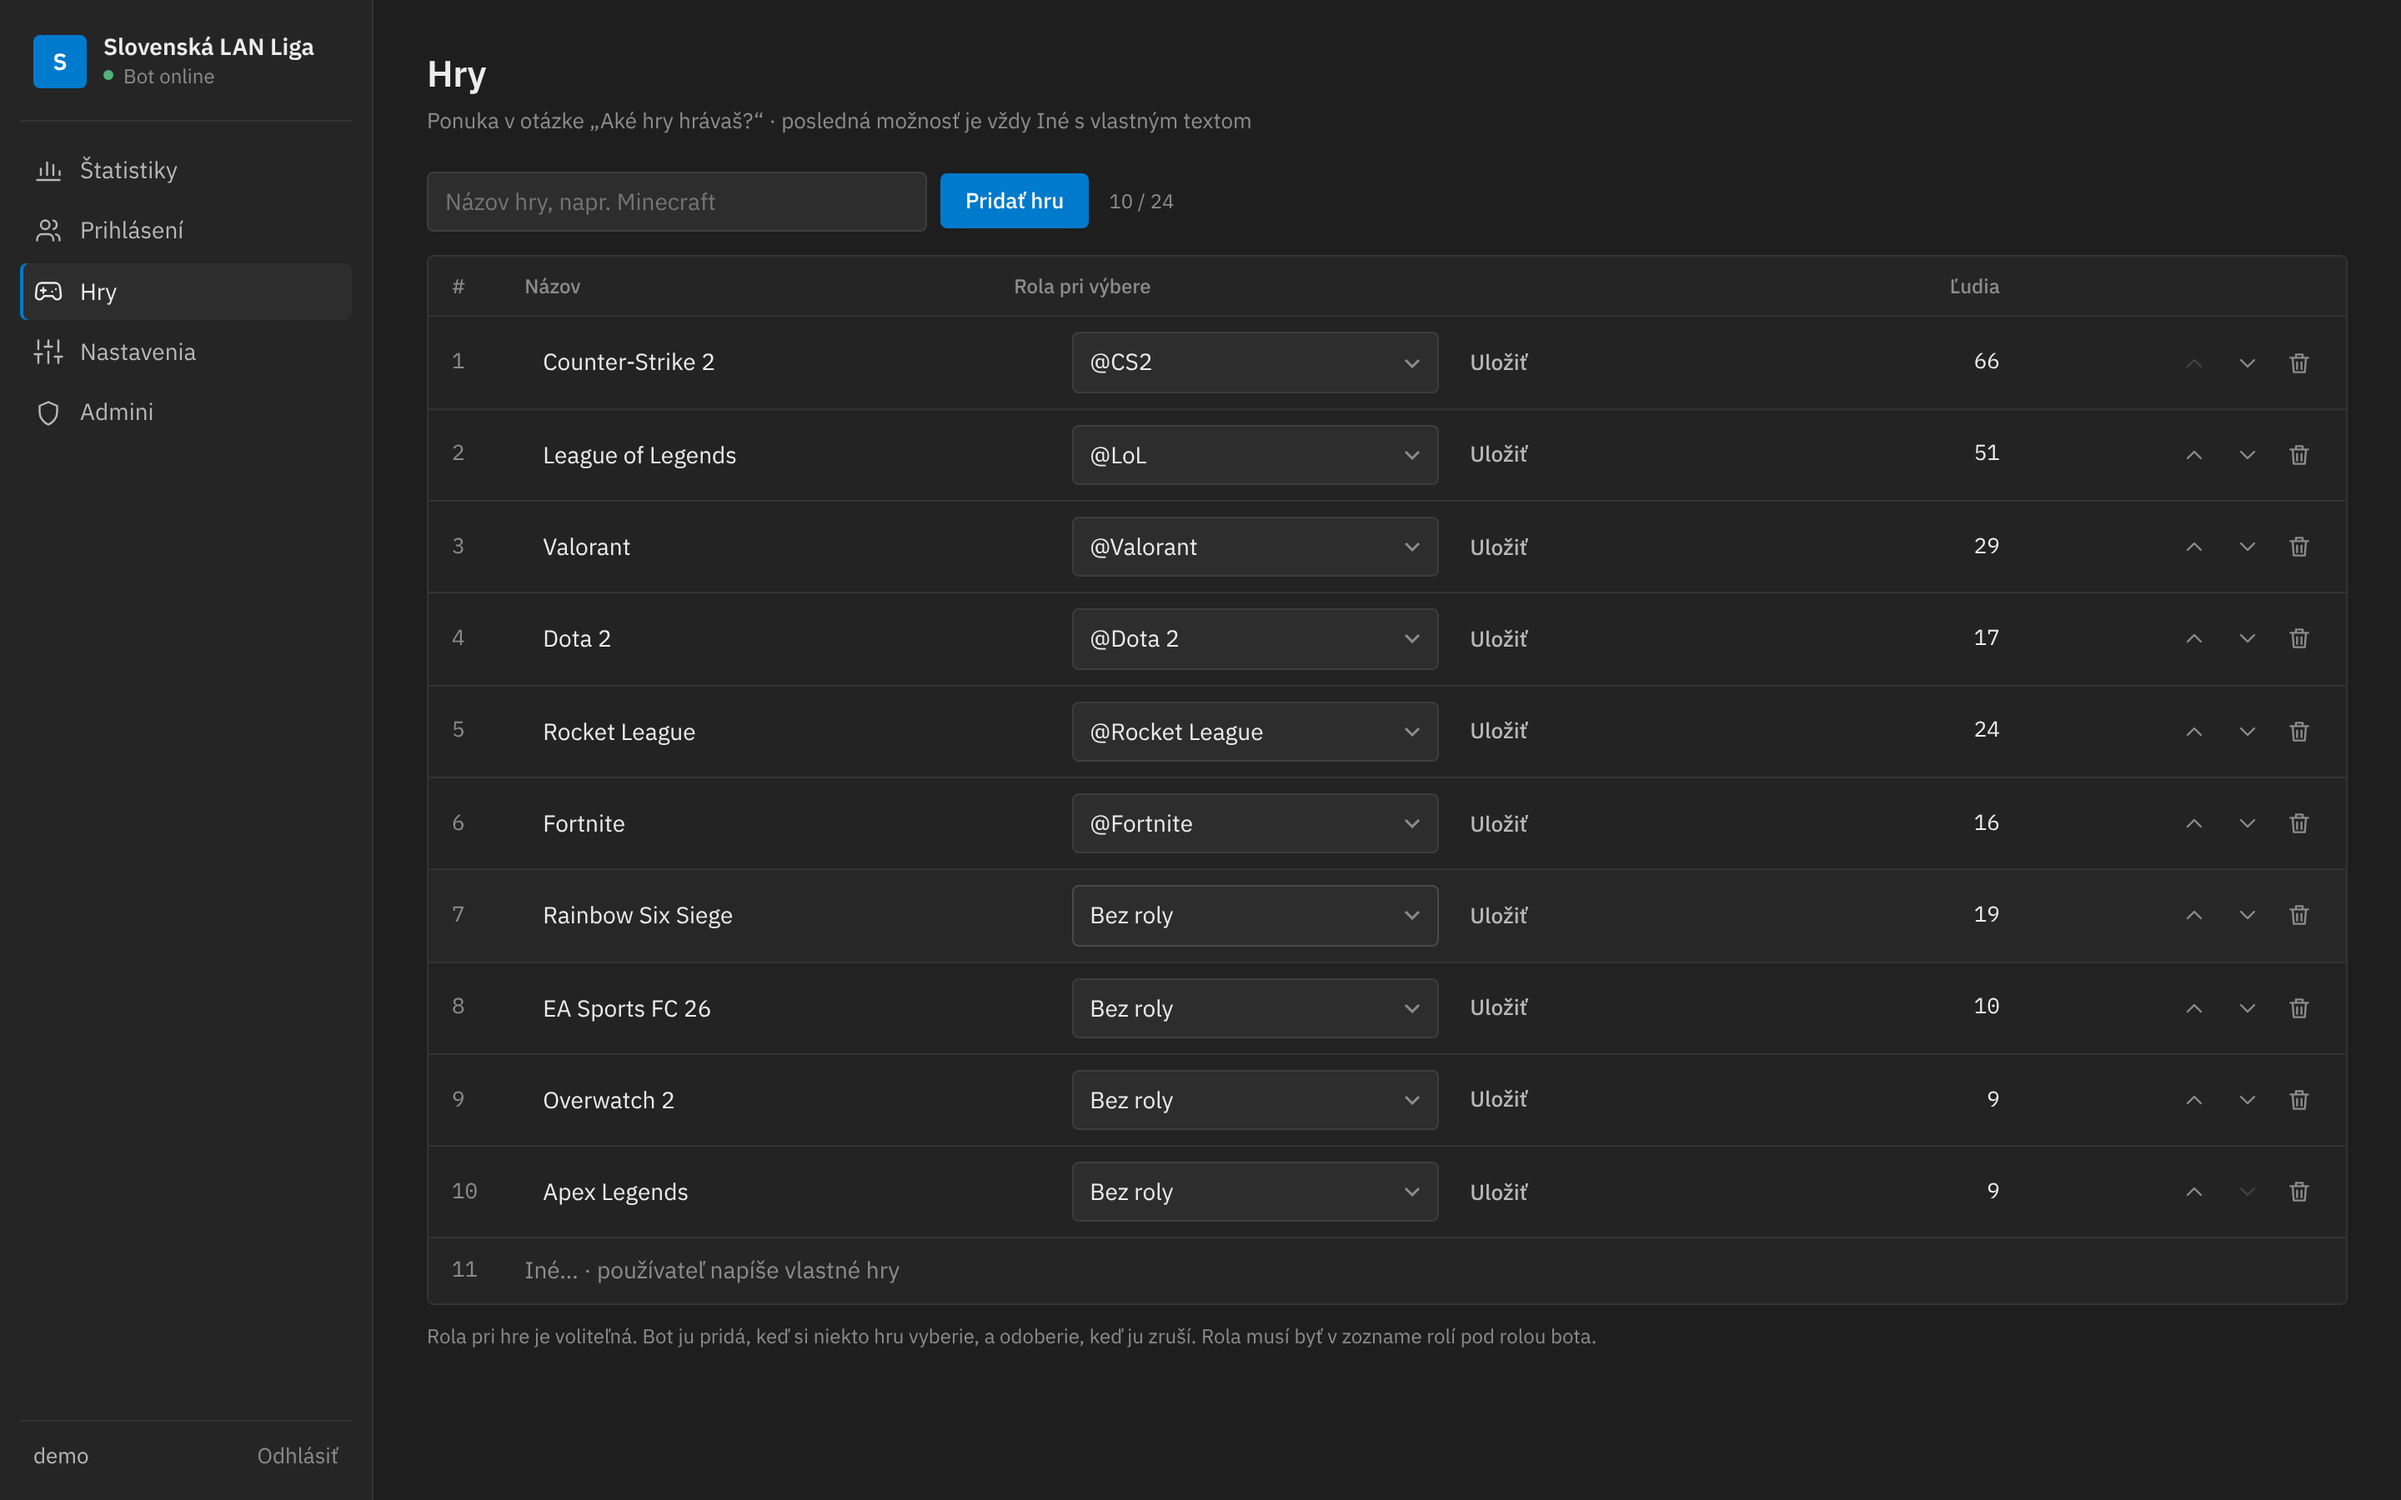
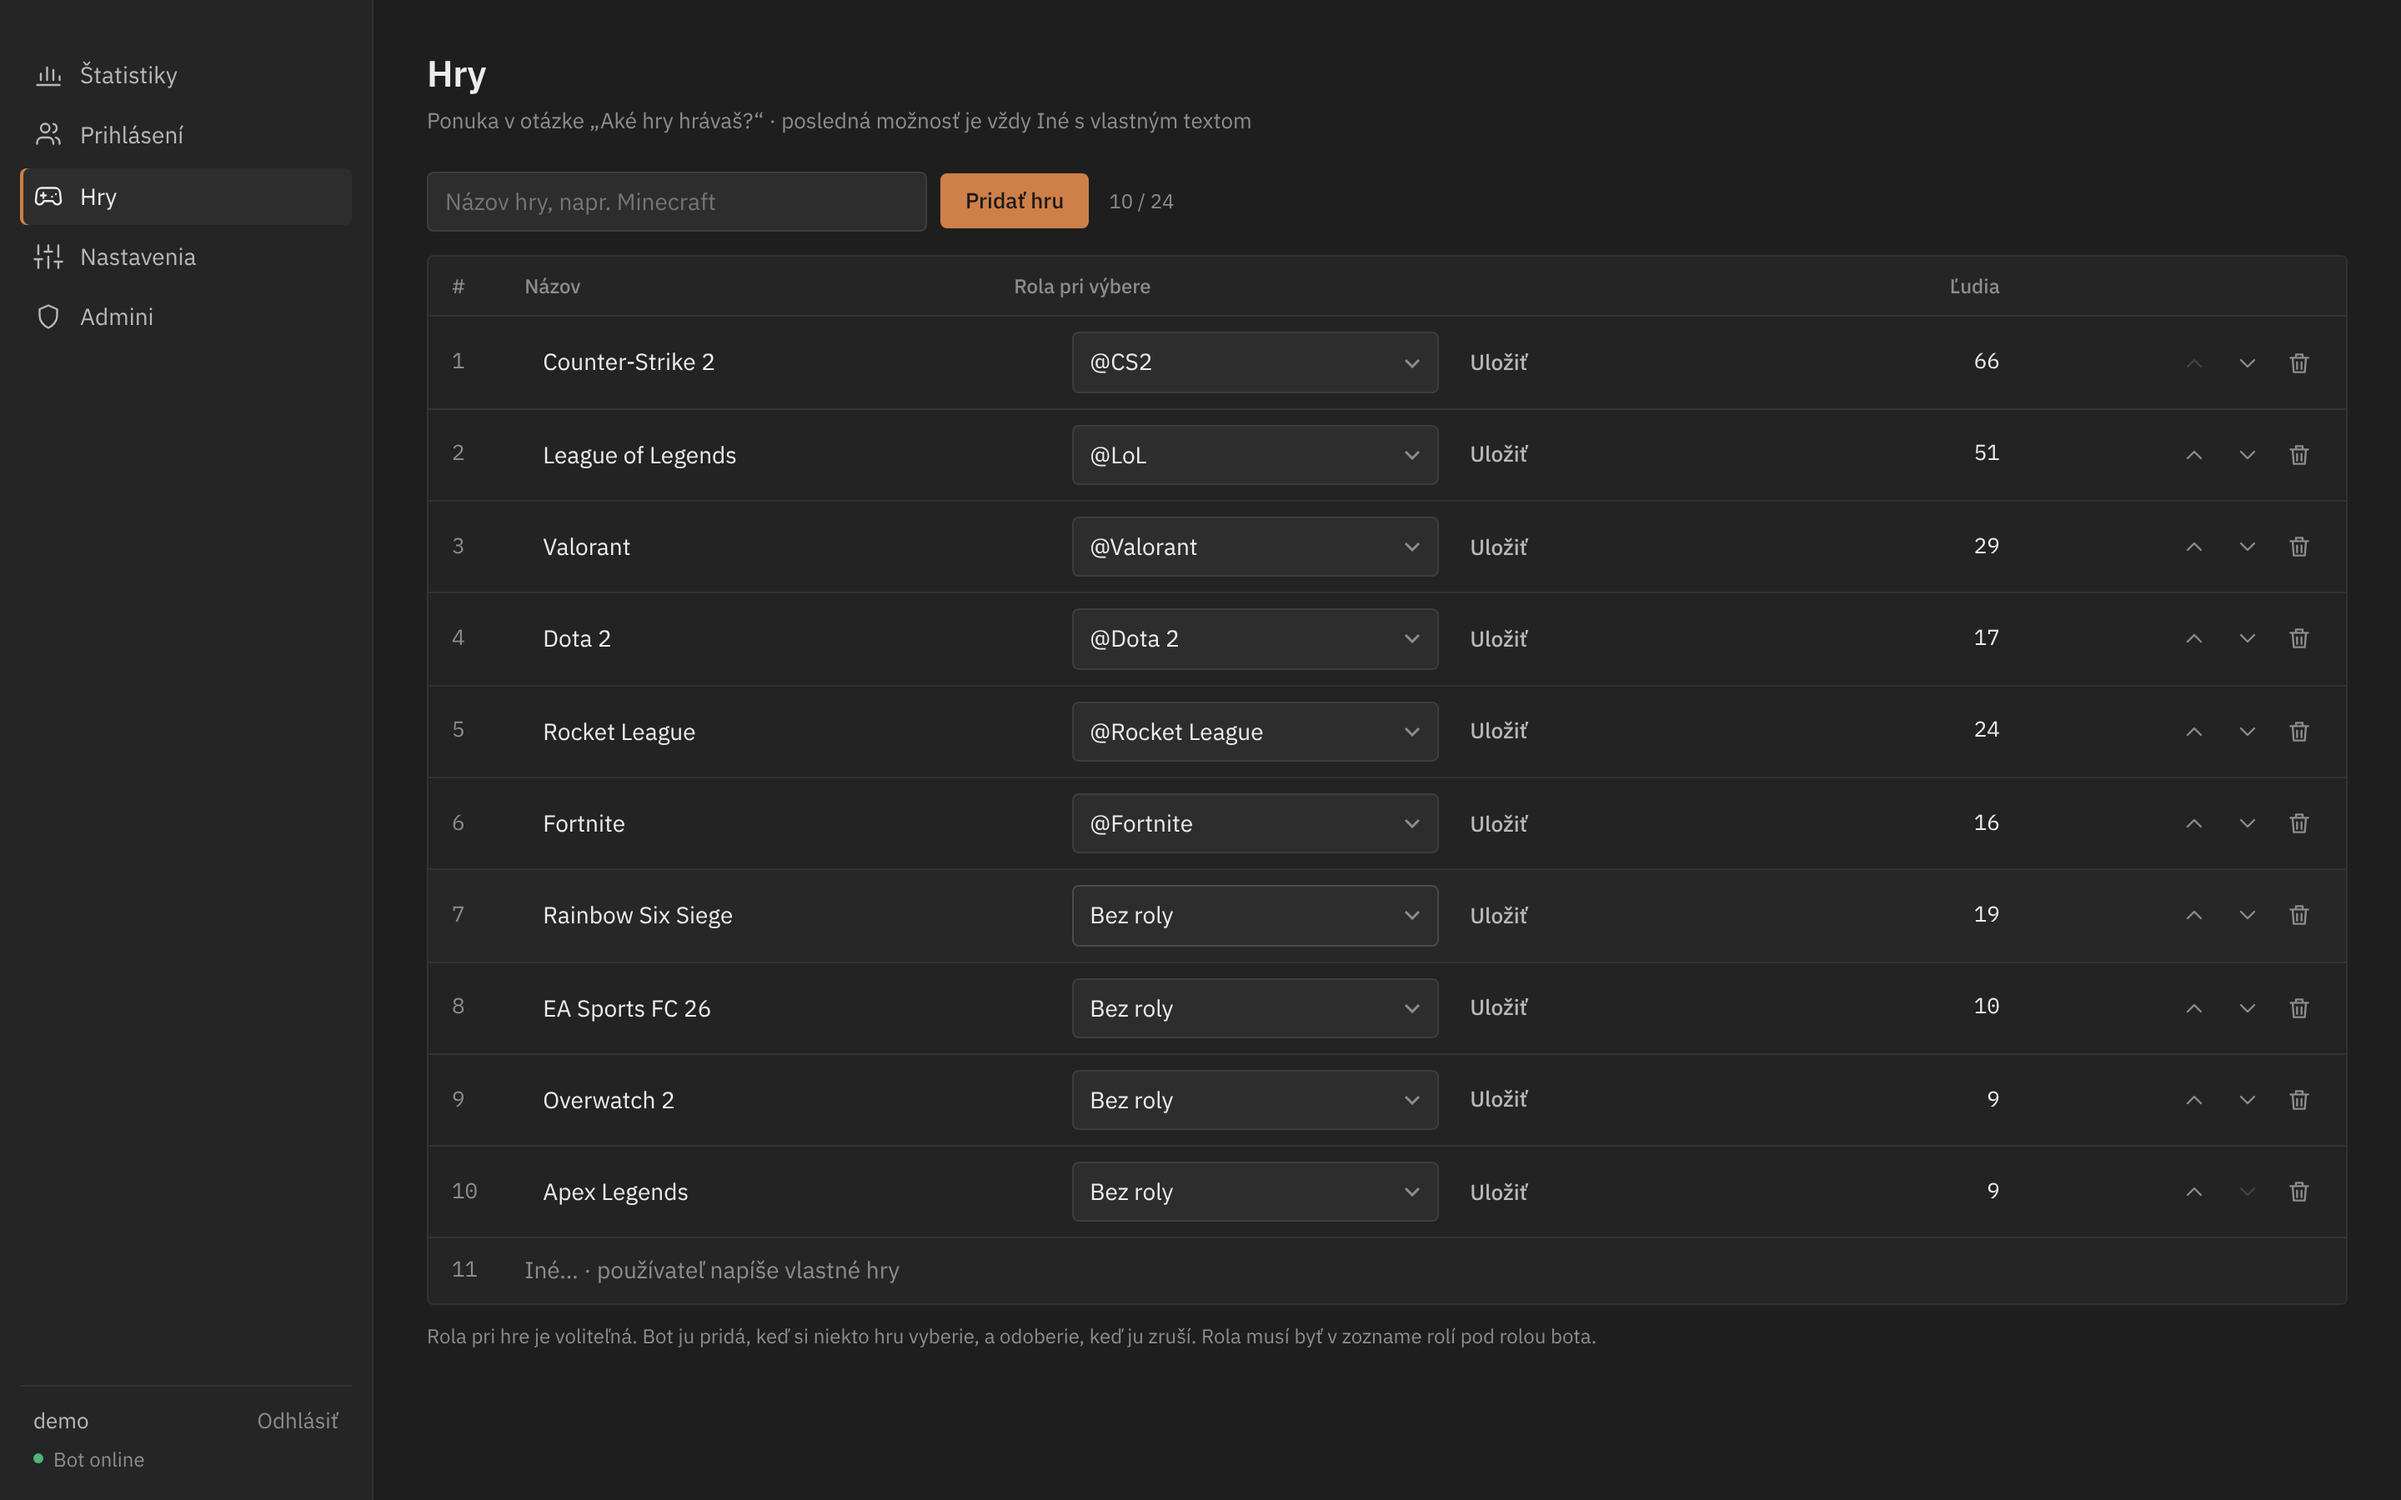
Panel: muted orange accent, drop server name block from sidebar
Bot online/offline status moves to the sidebar footer.

Claude-Session: https://claude.ai/code/session_014mXFMA4HcgocH3yi2gUjYr

Changed region(s): [[0.0, 0.0, 0.125, 0.28], [0.375, 0.0933, 0.4688, 0.1556], [0.0, 0.9644, 0.0625, 0.9956]]

diff --git a/src/web/public/style.css b/src/web/public/style.css
@@ -1,4 +1,4 @@
-/* Palette follows the NodeEditor look: neutral charcoal greys with one blue accent. */
+/* Neutral charcoal greys (from NodeEditor) with one muted orange accent. */
 :root {
   color-scheme: dark;
   --bg: #1e1e1e;
@@ -10,12 +10,14 @@
   --text: #ececec;
   --text-2: #b8b8b8;
   --muted: #8c8c8c;
-  --accent: #007acc;
-  --accent-hi: #1a8ad6;
-  --accent-ink: #ffffff;
-  --series: #3987e5;
-  --series-wash: rgba(57, 135, 229, 0.12);
-  --series-dim: #2b4f78;
+  --accent: #cf8048;
+  --accent-hi: #dc915c;
+  --accent-ink: #1a1a1a;
+  --link: #e09a64;
+  --series: #d4844a;
+  --series-wash: rgba(212, 132, 74, 0.12);
+  --series-dim: #6a4630;
+  --series-track: #3a2a1f;
   --ok: #4fb37a;
   --danger: #e66767;
   --danger-bg: #5a2626;
@@ -32,7 +34,7 @@ body {
   background: var(--bg);
   -webkit-font-smoothing: antialiased;
 }
-a { color: var(--series); text-decoration: none; }
+a { color: var(--link); text-decoration: none; }
 a:hover { text-decoration: underline; text-underline-offset: 2px; }
 em { font-style: normal; color: var(--muted); }
 strong { font-weight: 600; }
@@ -51,19 +53,12 @@ strong { font-weight: 600; }
   border-right: 1px solid var(--line);
   display: flex; flex-direction: column; align-self: start;
   position: sticky; top: 0; height: 100vh;
-  padding: 16px 12px;
+  padding: 28px 12px 16px;
 }
-.brand { display: flex; gap: 10px; align-items: center; padding: 4px 8px 18px; border-bottom: 1px solid var(--line); margin-bottom: 12px; }
-.mark {
-  width: 32px; height: 32px; border-radius: var(--radius); flex: none;
-  display: grid; place-items: center;
-  background: var(--accent); color: var(--accent-ink); font-weight: 600;
-}
-.brand-name { font-weight: 600; line-height: 1.2; overflow: hidden; text-overflow: ellipsis; white-space: nowrap; max-width: 150px; }
-.brand-sub { font-size: 12px; color: var(--muted); display: flex; align-items: center; gap: 6px; }
-.brand-sub .dot { width: 6px; height: 6px; border-radius: 50%; background: var(--muted); }
-.brand-sub.on .dot { background: var(--ok); }
-.brand-sub.off .dot { background: var(--danger); }
+.status { font-size: 12px; color: var(--muted); display: flex; align-items: center; gap: 6px; }
+.status .dot { width: 6px; height: 6px; border-radius: 50%; background: var(--muted); }
+.status.on .dot { background: var(--ok); }
+.status.off .dot { background: var(--danger); }
 
 .side nav { display: flex; flex-direction: column; gap: 2px; }
 .side nav a {
@@ -75,7 +70,7 @@ strong { font-weight: 600; }
 .side nav a.active { background: var(--raise); color: var(--text); box-shadow: inset 2px 0 0 var(--accent); }
 .side nav svg { width: 18px; height: 18px; fill: none; stroke: currentColor; stroke-width: 1.6; stroke-linecap: round; stroke-linejoin: round; flex: none; }
 
-.who { margin-top: auto; display: flex; justify-content: space-between; align-items: center; padding: 12px 8px 0; border-top: 1px solid var(--line); font-size: 13px; color: var(--text-2); }
+.who { margin-top: auto; display: grid; grid-template-columns: 1fr auto; row-gap: 4px; align-items: center; padding: 12px 8px 0; border-top: 1px solid var(--line); font-size: 13px; color: var(--text-2); }
 
 main { padding: 28px 32px 56px; max-width: 1280px; width: 100%; }
 
@@ -182,7 +177,7 @@ table.bars .num { padding-left: 12px; text-align: right; color: var(--text); }
 .ret .label { font: 600 12px var(--mono); color: var(--muted); }
 .ret .value { font-size: 28px; font-weight: 600; font-variant-numeric: tabular-nums; }
 .ret .meta { font-size: 12px; color: var(--muted); }
-.meter { height: 6px; background: #1e3350; border-radius: 3px; overflow: hidden; margin: 4px 0 2px; }
+.meter { height: 6px; background: var(--series-track); border-radius: 3px; overflow: hidden; margin: 4px 0 2px; }
 .meter span { display: block; height: 100%; background: var(--series); }
 
 /* ------------------------------------------------------------------ forms & buttons */
@@ -206,7 +201,7 @@ option:disabled { color: #666; }
 }
 .btn:hover { background: #353535; text-decoration: none; }
 .btn.primary { background: var(--accent); border-color: var(--accent); color: var(--accent-ink); }
-.btn.primary:hover { background: #005a9e; border-color: #005a9e; }
+.btn.primary:hover { background: var(--accent-hi); border-color: var(--accent-hi); }
 .btn.quiet { background: transparent; border-color: transparent; color: var(--text-2); padding: 6px 10px; }
 .btn.quiet:hover { background: var(--raise); color: var(--text); }
 .btn.danger { color: var(--danger); }
@@ -303,8 +298,8 @@ body.bare { min-height: 100vh; display: grid; place-items: center; padding: 16px
 @media (max-width: 900px) {
   .shell { grid-template-columns: 1fr; background: none; }
   .side { position: static; height: auto; flex-direction: row; flex-wrap: wrap; align-items: center; gap: 8px; padding: 10px 16px; }
-  .brand { border: 0; margin: 0; padding: 0; flex: 1; }
   .side nav { flex-direction: row; overflow-x: auto; order: 3; width: 100%; }
+  .who { flex: 1; }
   .side nav a { white-space: nowrap; }
   .who { margin: 0; border: 0; padding: 0; gap: 10px; }
   main { padding: 20px 16px 40px; }
